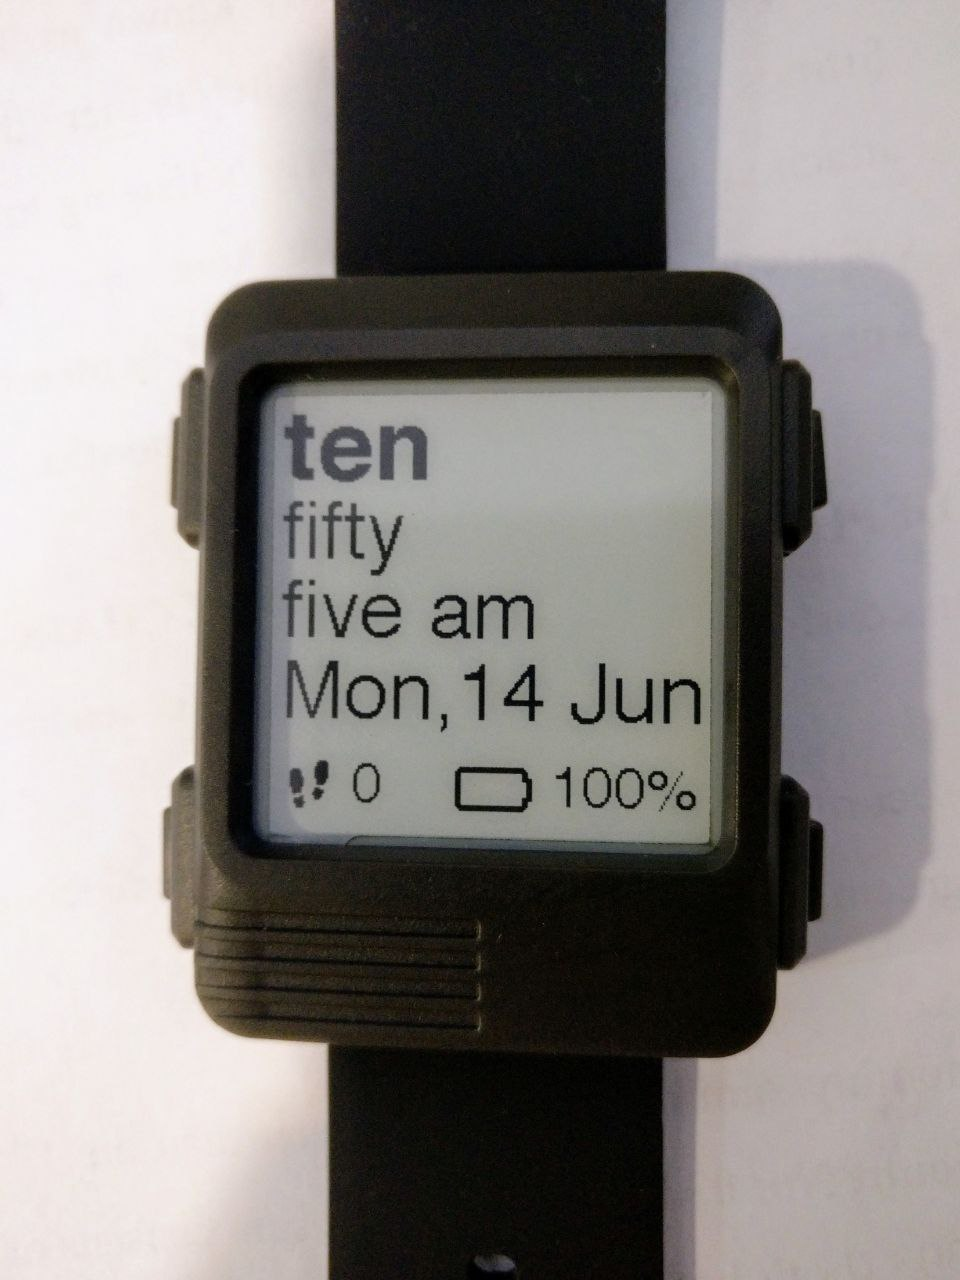
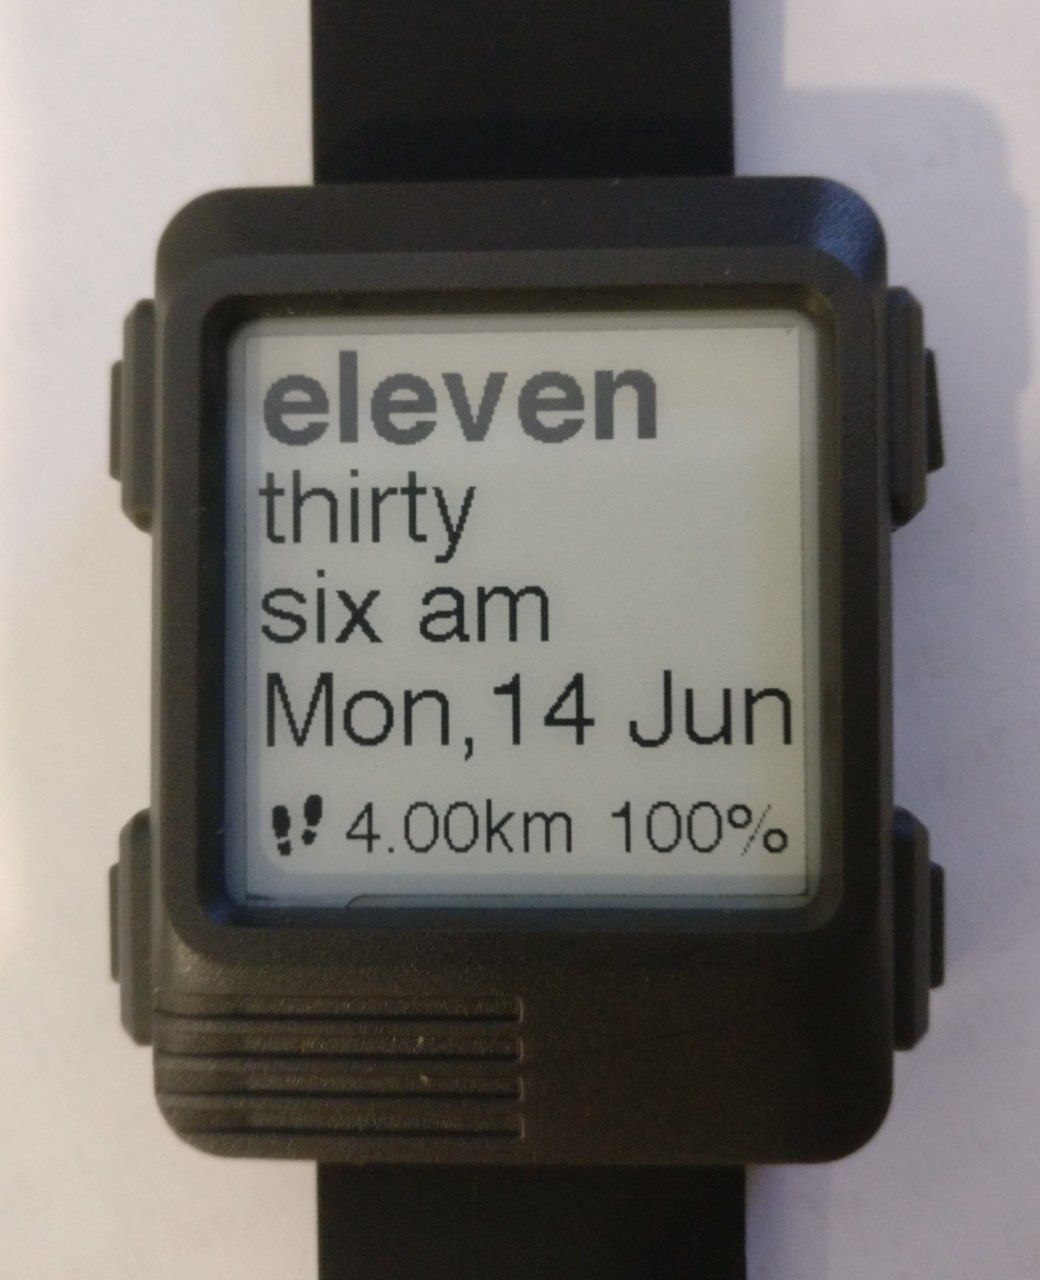
⚡improve: display distance walked instead of steps

diff --git a/src/Prose/Prose.cpp b/src/Prose/Prose.cpp
@@ -102,15 +102,18 @@ void Prose::drawBattery()
 
   uint8_t xpos = 85;
 
-  display.drawBitmap(xpos, 173, battery, 37, 21, GxEPD_BLACK);
+  // display.drawBitmap(xpos, 173, battery, 37, 21, GxEPD_BLACK);
   display.setCursor(xpos + 45, 190);
   display.print(batStr + "%");
 }
 
 void Prose::drawSteps()
 {
-  uint32_t stepCount = sensor.getCounter();
-  display.drawBitmap(5, 171, steps, 19, 23, GxEPD_BLACK);
-  display.setCursor(35, 190);
-  display.println(stepCount);
+  uint32_t distanceWalked = getDistanceWalked();
+  display.drawBitmap(5, 169, steps, 19, 23, GxEPD_BLACK);
+  display.setCursor(32, 190);
+
+  String stepStr = distanceWalked >= 1000 ? String((float)((distanceWalked * 10) / 10000)) + "km" : String(distanceWalked) + "m";
+
+  display.println(stepStr);
 }

diff --git a/src/Watchy_Custom.h b/src/Watchy_Custom.h
@@ -4,6 +4,7 @@
 #include <Watchy.h>
 
 #define BATTERY_OFFSET 0.105
+#define STEP_LENGTH 0.45 // metres
 
 class WatchyCustom : public Watchy
 {
@@ -13,6 +14,7 @@ public:
   void printCentered(uint16_t y, String text);
   void printRight(uint16_t y, String text);
   uint8_t getBattery();
+  uint32_t getDistanceWalked();
 };
 
 #endif

diff --git a/src/Watchy_Custom.cpp b/src/Watchy_Custom.cpp
@@ -43,3 +43,9 @@ uint8_t WatchyCustom::getBattery()
   percentage = max((uint8_t)0, percentage);
   return percentage;
 }
+
+uint32_t WatchyCustom::getDistanceWalked()
+{
+  uint32_t stepCount = sensor.getCounter();
+  return (uint32_t)((float)stepCount * STEP_LENGTH);
+}

diff --git a/src/Prose/README.md b/src/Prose/README.md
@@ -2,4 +2,4 @@
 
 A word-based watch face.
 
-![photo of prose watch face](../../images/prose.jpg)
+<img src="../../images/prose.jpg" width="200" />
